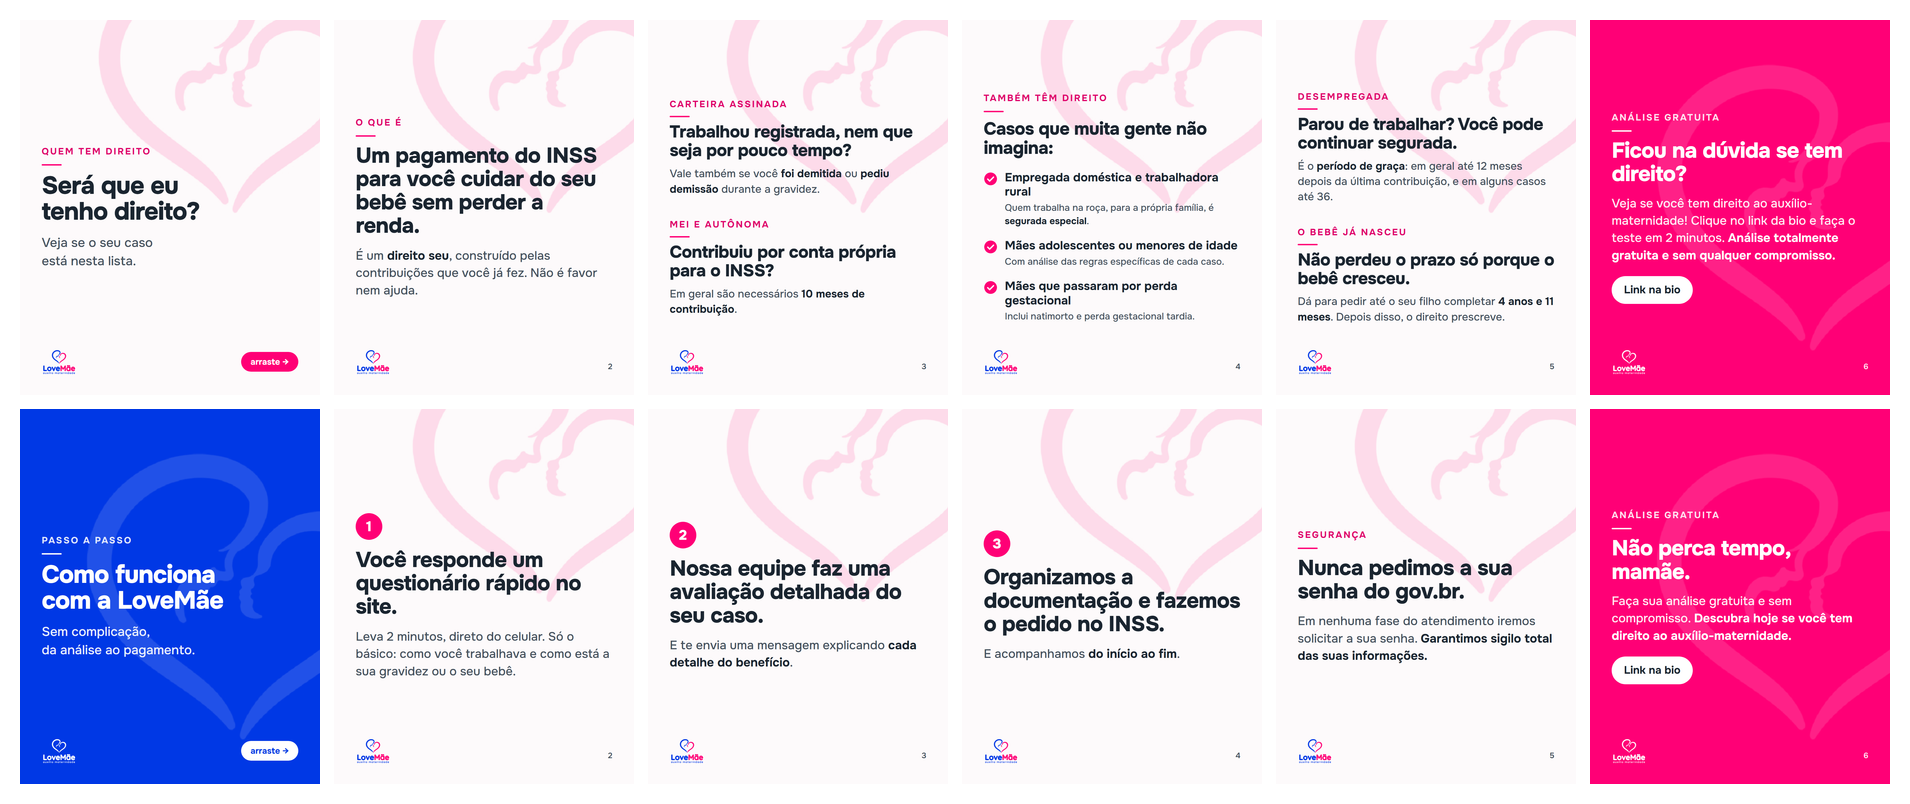
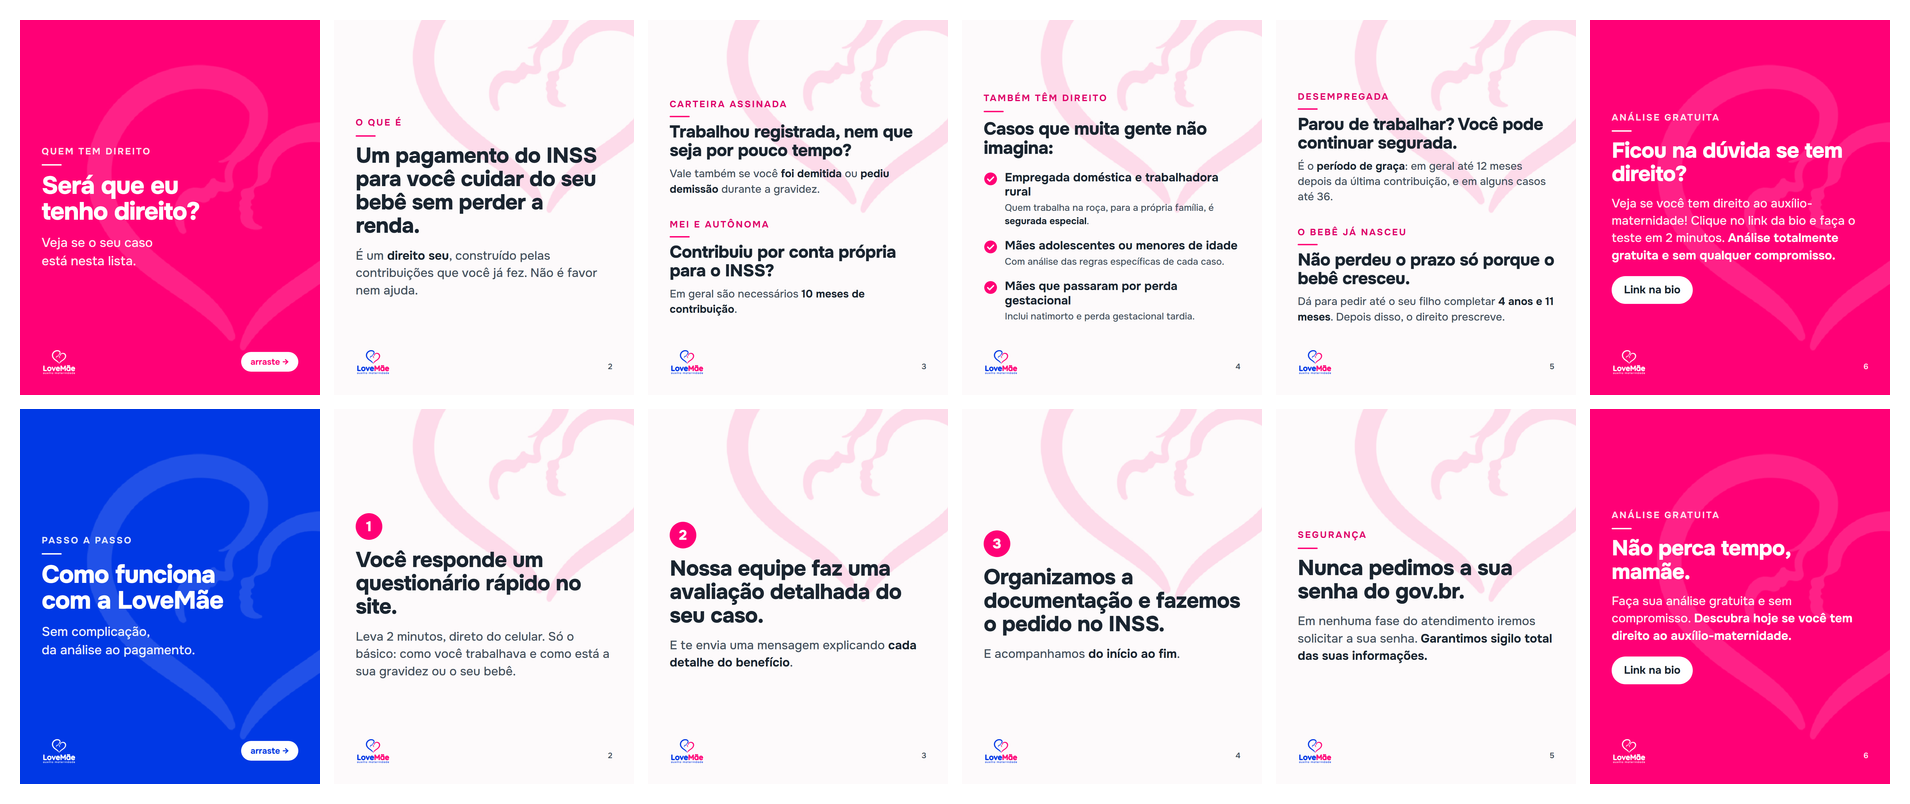
carrossel "Quem tem direito": capa volta ao rosa

Changed region(s): [[0.0, 0.0, 0.1853, 0.4975]]

diff --git a/marketing/conteudo/carrossel-quem-tem-direito-2026-09-17/legenda.md b/marketing/conteudo/carrossel-quem-tem-direito-2026-09-17/legenda.md
@@ -1,7 +1,7 @@
 # Carrossel 2 da trilogia — "Será que eu tenho direito?"
 
 Produzido em 17/09/2026. Post **fixado** no topo do perfil (o do meio).
-6 slides, 1080×1350. Capa **branca** (decisão de 22/09/2026).
+6 slides, 1080×1350. Capa **rosa** (decisão de 29/09/2026: com dois fixados, a dupla fica rosa + azul).
 
 ⚠ **Antes de publicar:** o time de operação precisa conferir as regras citadas —
 carência de 10 meses para MEI/autônoma, segurada especial rural, período de graça
